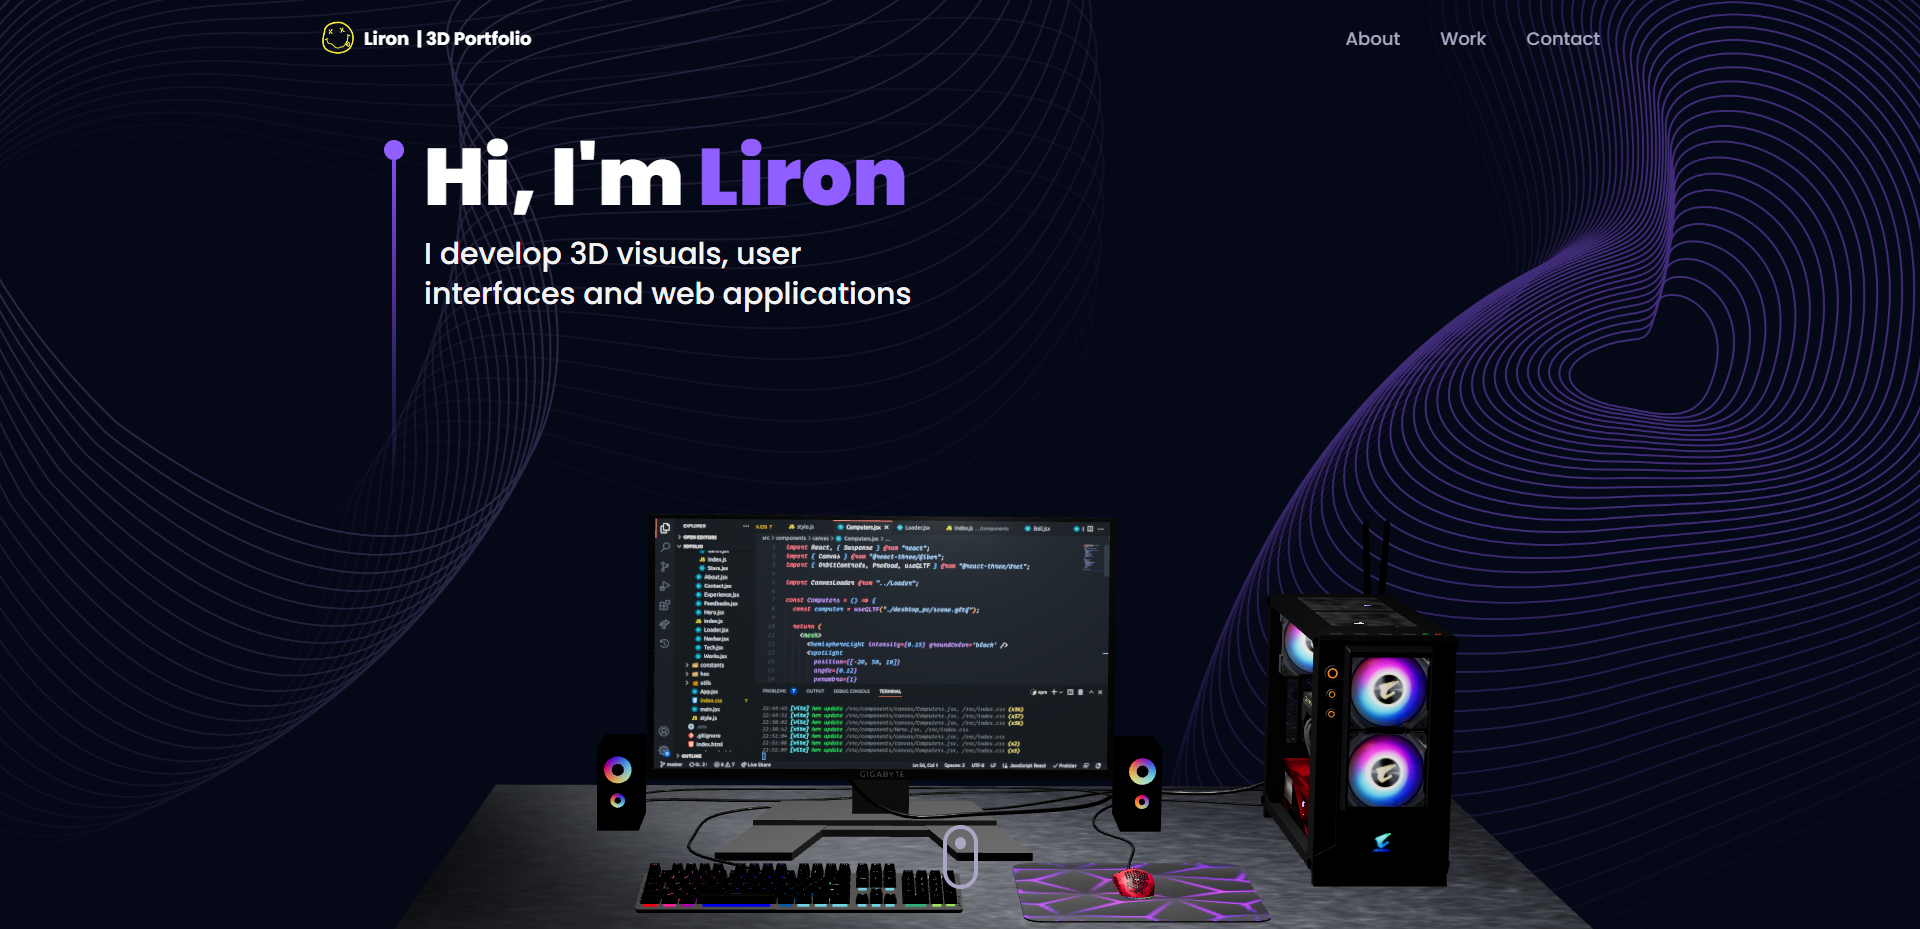
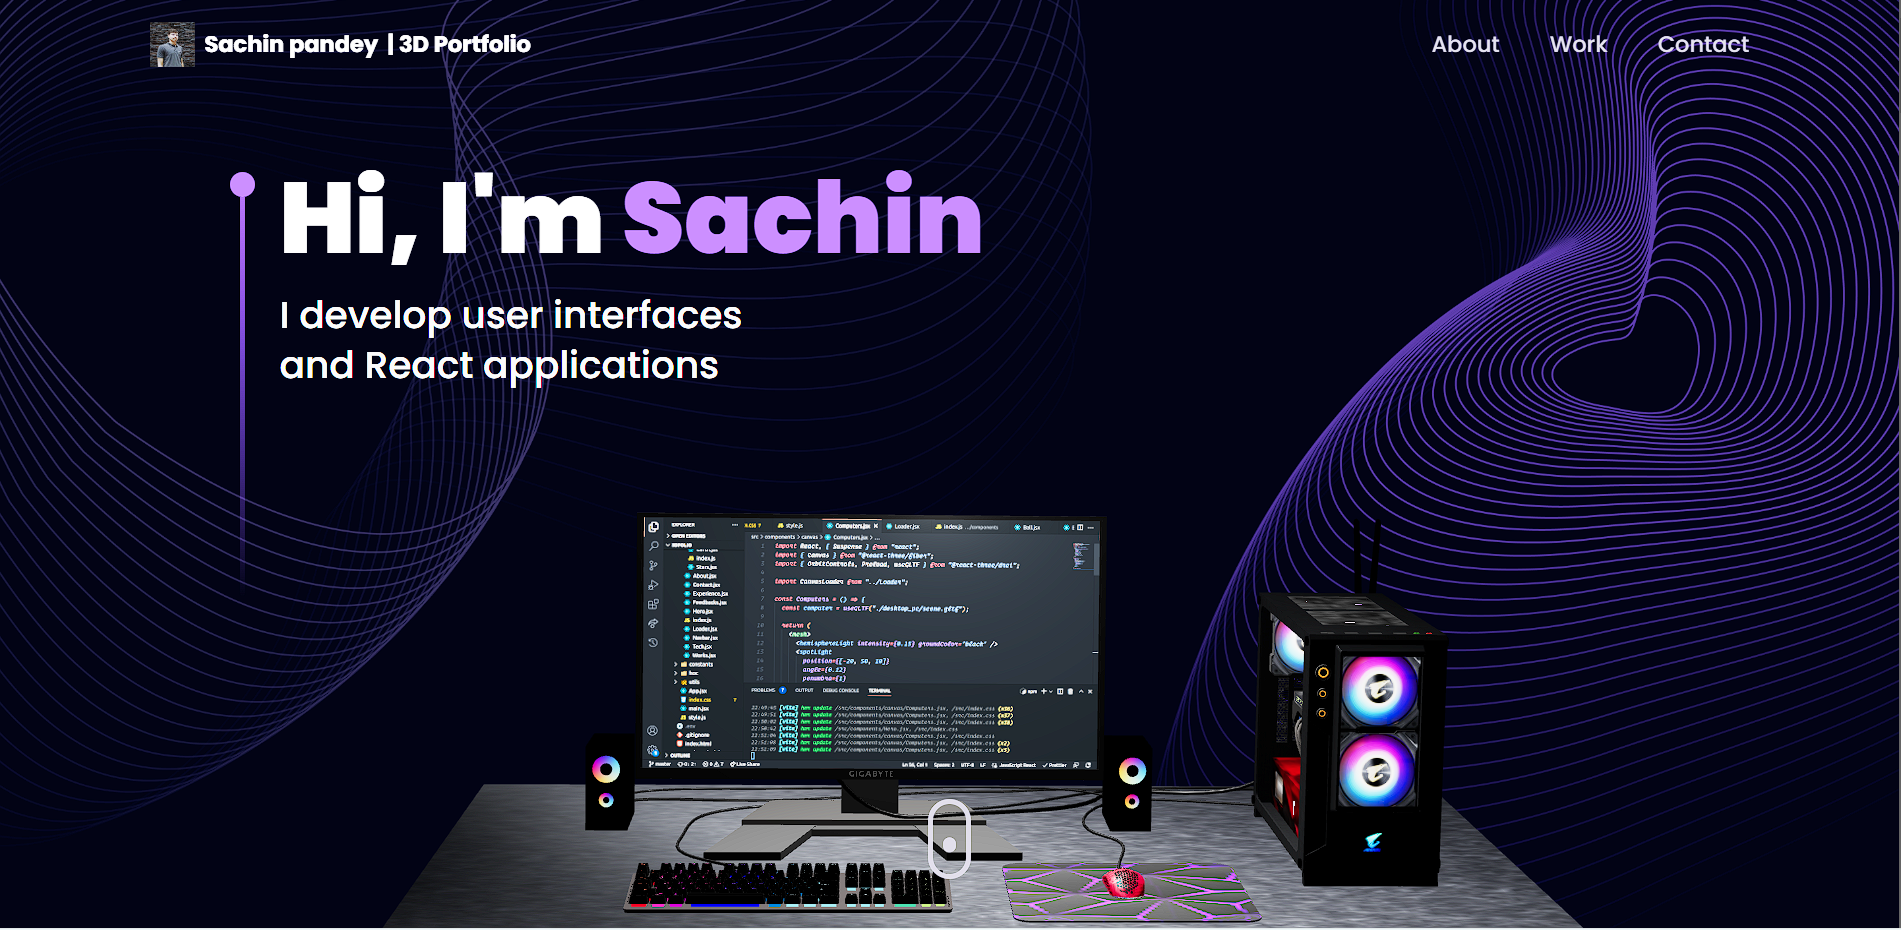
commit

Changed region(s): [[0.0, 0.0, 1.0, 1.0], [0.0, 0.0, 0.5276, 0.8428]]

diff --git a/index.html b/index.html
@@ -2,9 +2,9 @@
 <html lang="en">
   <head>
     <meta charset="UTF-8" />
-    <link rel="icon" type="image/svg+xml" href="./logo.svg" />
+    <link rel="icon" type="image/svg+xml" href="https://media.licdn.com/dms/image/D4D03AQE_vgXi7MA8zg/profile-displayphoto-shrink_400_400/0/1683726291689?e=1691020800&v=beta&t=ZnRtTWHUWYoXnJiBL-qtOwZw1Im5RshDdn6opFpZ21w" />
     <meta name="viewport" content="width=device-width, initial-scale=1.0" />
-    <title>Ladunjexa | 3D Portfolio</title>
+    <title>Sachin Pandey | 3D Portfolio</title>
   </head>
   <body>
     <div id="root"></div>
